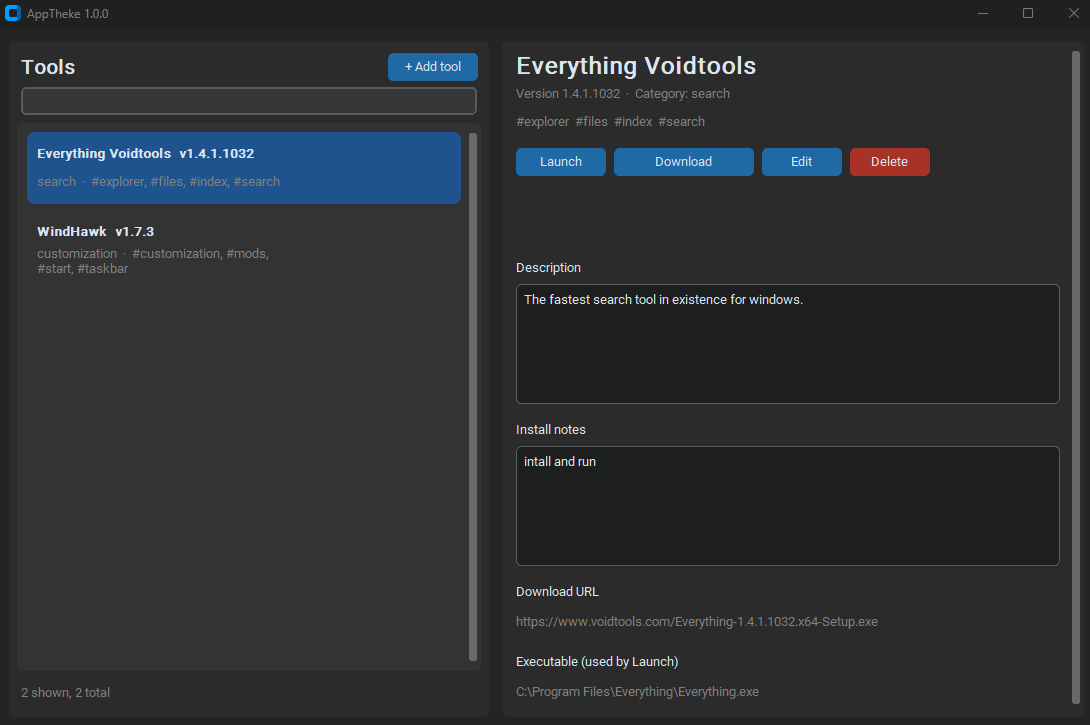
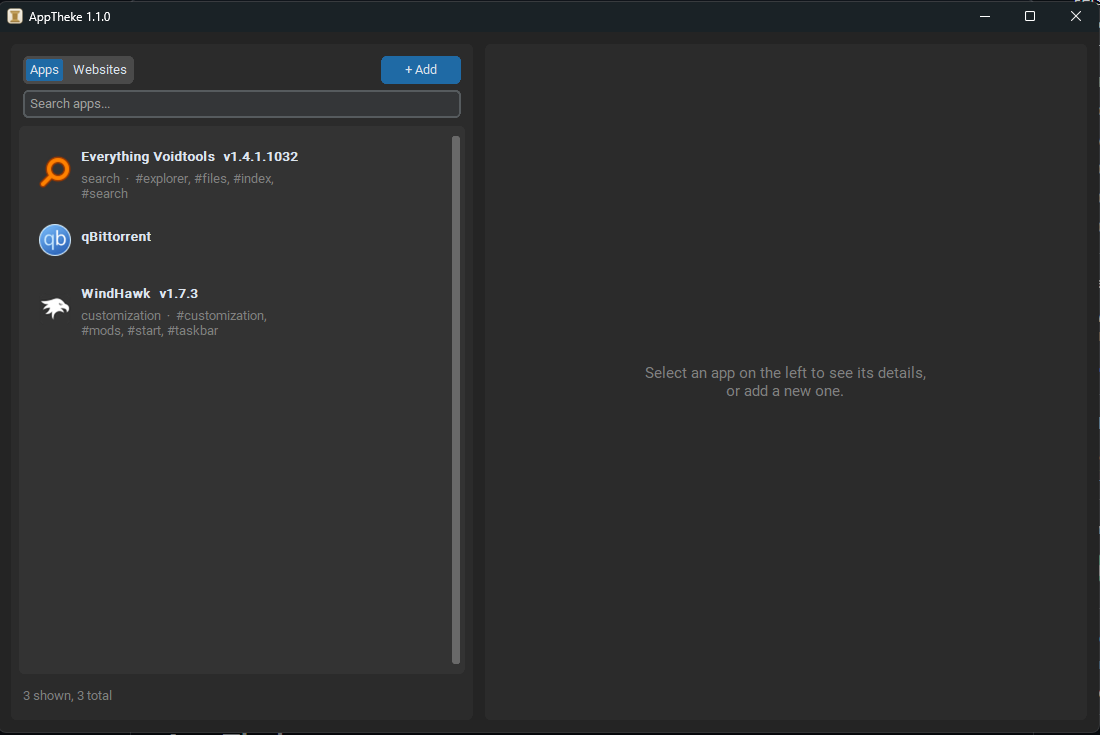
updated version number and demo screenshot

diff --git a/core/version.py b/core/version.py
@@ -6,4 +6,4 @@ Semantic versioning: MAJOR.MINOR.PATCH
   MAJOR  changes that break existing catalogs or workflows  1.1.0 -> 2.0.0
 """
 
-__version__ = "1.0.1"
+__version__ = "1.1.0"
